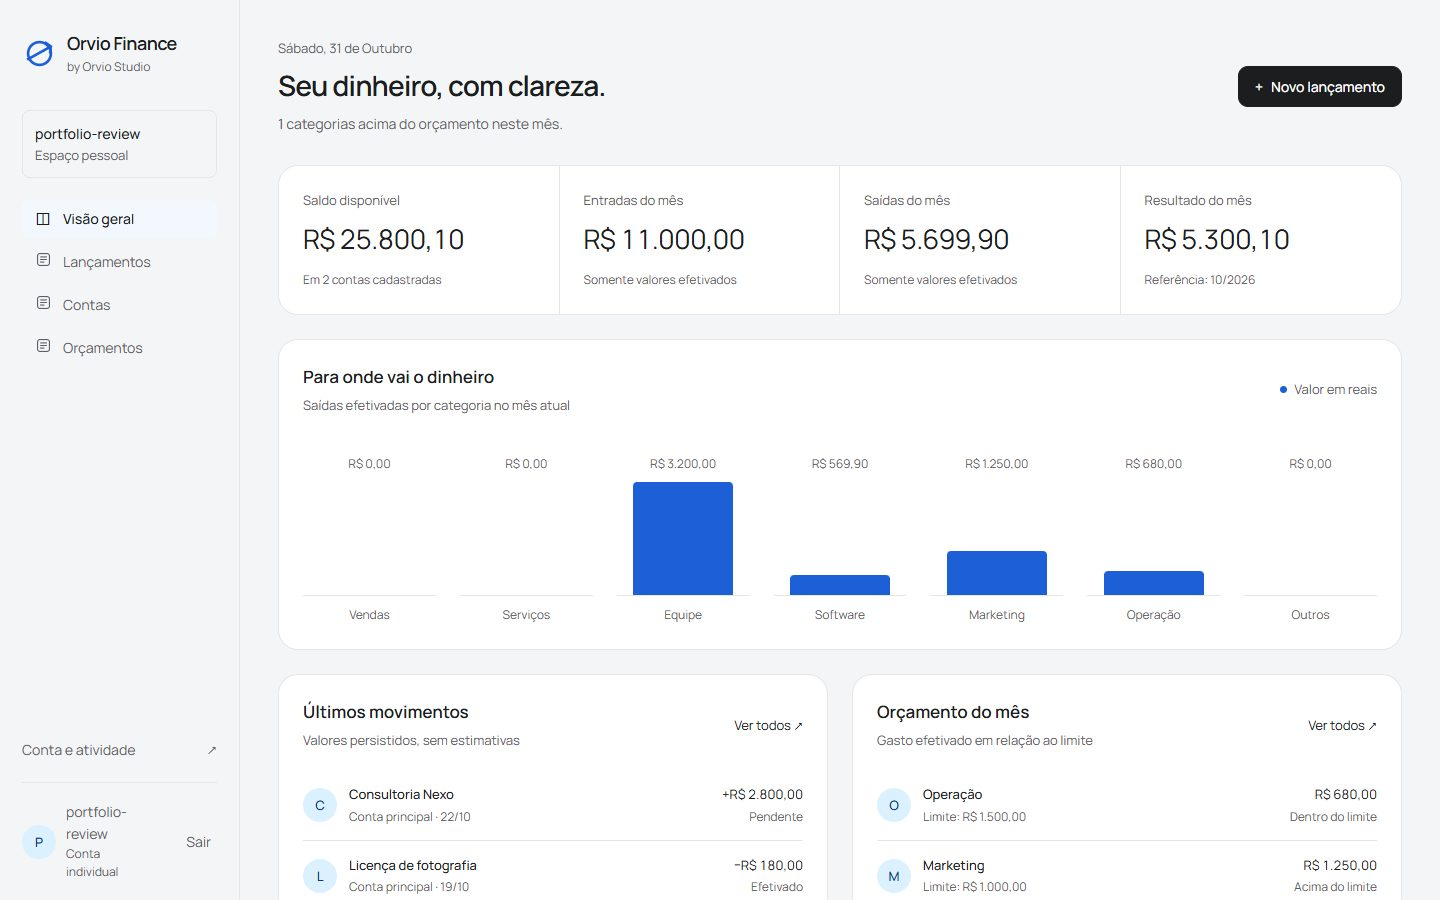
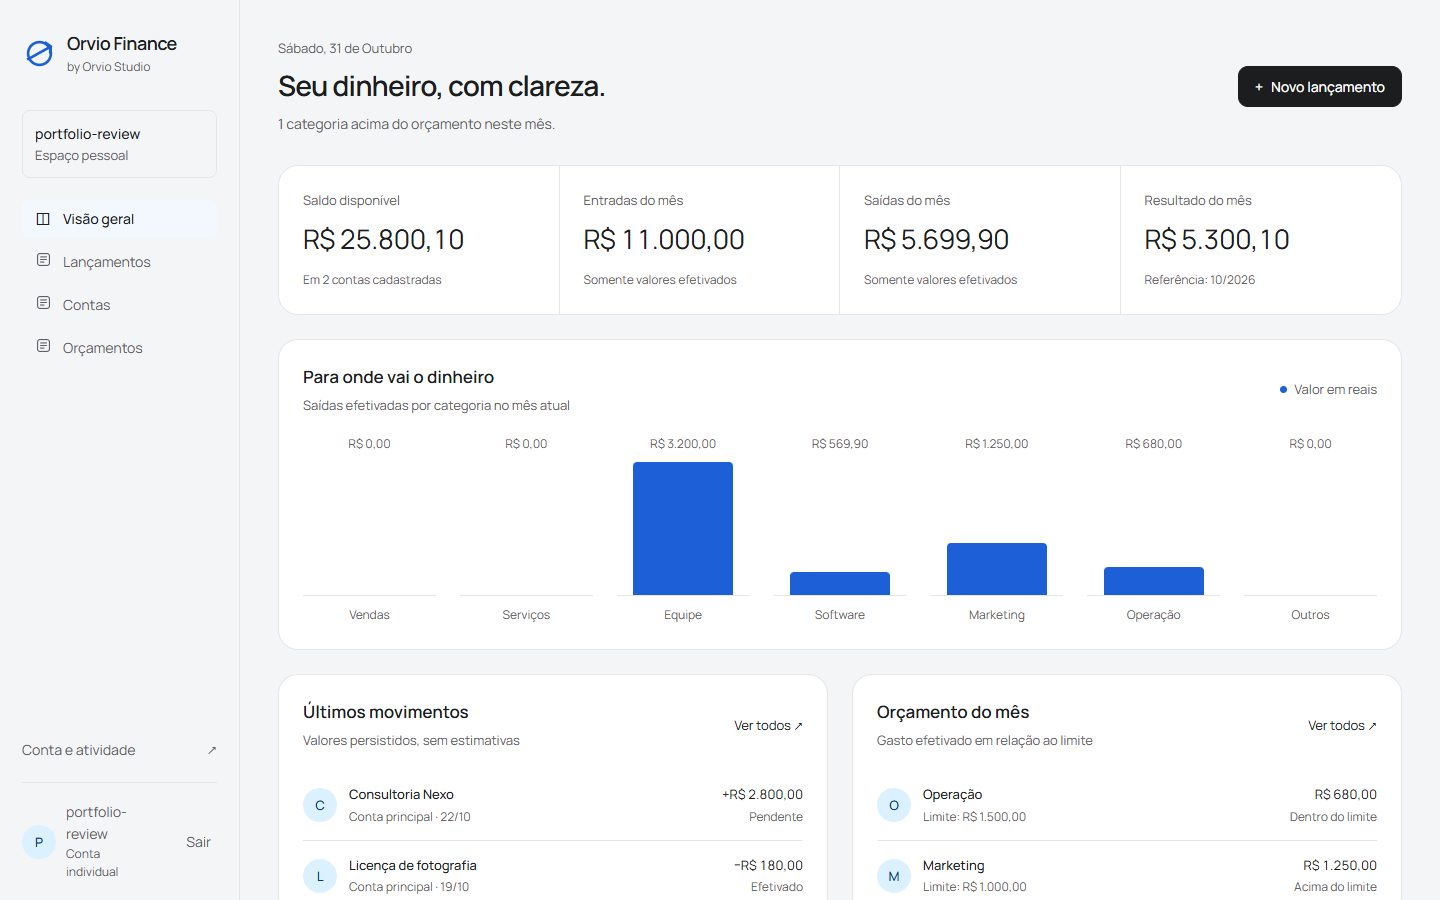
Harden administrative ownership and production defaults; document validation

diff --git a/workspace/admin.py b/workspace/admin.py
@@ -1,7 +1,38 @@
 from django.contrib import admin
 from .domain import REGISTRY
+from .forms import form_for
 from .models import Event
+
+
+class OwnedAdmin(admin.ModelAdmin):
+    """Assign ownership on creation and scope staff views and relation choices."""
+    def get_queryset(self, request):
+        queryset = super().get_queryset(request)
+        return queryset if request.user.is_superuser else queryset.filter(owner=request.user)
+
+    def get_form(self, request, obj=None, **kwargs):
+        owner = obj.owner if obj else request.user
+        base = form_for(self.model)
+
+        class AdminForm(base):
+            def __init__(self, *args, **form_kwargs):
+                super().__init__(*args, user=owner, **form_kwargs)
+
+        return AdminForm
+
+
+@admin.register(Event)
+class EventAdmin(OwnedAdmin):
+    list_display = ('description', 'owner', 'created_at')
+    readonly_fields = ('description', 'owner', 'created_at')
+
+    def has_add_permission(self, request):
+        return False
+
+    def has_change_permission(self, request, obj=None):
+        return False
+
+
 for item in REGISTRY.values():
-    admin.site.register(item['model'])
-admin.site.register(Event)
+    admin.site.register(item['model'], OwnedAdmin)
 admin.site.site_header = 'Orvio Studio · Administração'

diff --git a/workspace/tests.py b/workspace/tests.py
@@ -138,6 +138,20 @@ class WorkspaceTests:
             self.client.post('/login/',{'username':'absent','password':'wrong'})
         self.assertEqual(self.client.post('/login/',{'username':'absent','password':'wrong'}).status_code,429)
 
+    def test_admin_forms_have_owner_and_scoped_relations(self):
+        from django.contrib import admin
+        from django.test import RequestFactory
+        superuser = get_user_model().objects.create_superuser('admin-review', password='Admin-test-password-26', email='admin@example.com')
+        request = RequestFactory().get('/admin/')
+        request.user = superuser
+        for config in REGISTRY.values():
+            model_admin = admin.site._registry[config['model']]
+            form = model_admin.get_form(request)()
+            self.assertEqual(form.instance.owner, superuser)
+            for field in form.fields.values():
+                if hasattr(field, 'queryset') and field.queryset is not None:
+                    self.assertFalse(field.queryset.exclude(owner=superuser).exists())
+
     def test_health_checks_database(self):
         self.assertEqual(self.client.get('/health/').json(),{'status':'ok'})
 

diff --git a/docs/validation.md b/docs/validation.md
@@ -3,7 +3,7 @@
 ## Evidência local
 
 - Python 3.12.16, Django 5.2.18, Windows 11 x64.
-- 24 testes automatizados aprovados em SQLite: autenticação, CSRF, isolamento entre contas, formulários, exportação, cálculos e regras do domínio.
+- 25 testes automatizados aprovados em SQLite: autenticação, CSRF, isolamento entre contas, formulários, exportação, cálculos e regras do domínio.
 - Migrações aplicadas e verificação de alterações de modelo sem pendências.
 - Interface renderizada pelo Django e inspecionada em Chromium a 1440, 768 e 390 px; capturas em `screenshots/`.
 - Fluxo real no navegador: login e cadastro de oportunidade (CRM); rejeição de conflito e salvamento de horário livre (Agenda); lançamento com centavos (Finance). Navegação recolhível verificada.
@@ -11,7 +11,7 @@
 
 ## Cobertura e limites
 
-O workflow em GitHub Actions executa a suíte em SQLite e PostgreSQL 17. O ambiente local estava com o Docker aguardando reinício do Windows; o teste de contêiner local não foi executado. Conferir a execução do workflow do commit atual para evidência de PostgreSQL e ambiente Linux.
+O workflow em GitHub Actions executa a suíte em SQLite e PostgreSQL 17. O ambiente local estava com o Docker aguardando reinício do Windows; o teste de contêiner local não foi executado. A execução inicial do workflow passou em SQLite e PostgreSQL 17 no Ubuntu. Consulte o badge do README para o resultado do commit atual.
 
 O inspetor visual não encontrou falhas bloqueantes após os ajustes. Avisos estéticos de espaço de gráfico e alturas diferentes de painéis foram revisados: os painéis têm quantidades reais diferentes e mantêm sua altura pelo conteúdo, sem linhas fictícias para preencher.
 

diff --git a/README.md b/README.md
@@ -1,5 +1,7 @@
 # Orvio Finance
 
+[![Quality](https://github.com/orviostudio21/orvio-finance/actions/workflows/ci.yml/badge.svg)](https://github.com/orviostudio21/orvio-finance/actions/workflows/ci.yml)
+
 Clareza para o próximo movimento. Contas, entradas, saídas e orçamento com números que você pode conferir.
 
 Uma aplicação completa da [Orvio Studio](https://github.com/orviostudio21), com backend Django, banco relacional, autenticação e interface responsiva em português.
